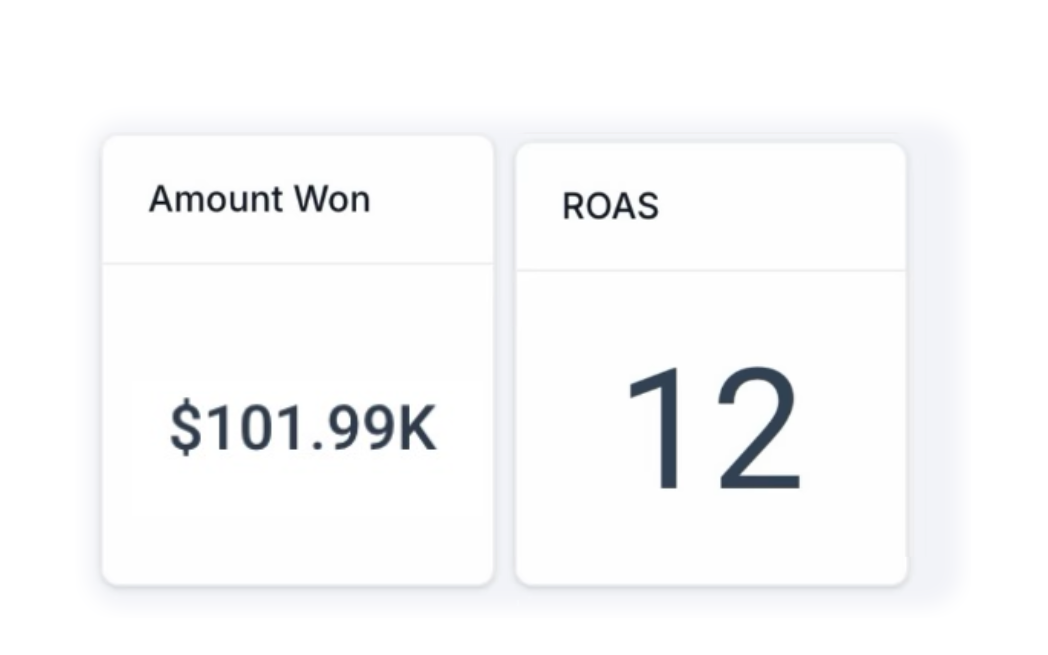
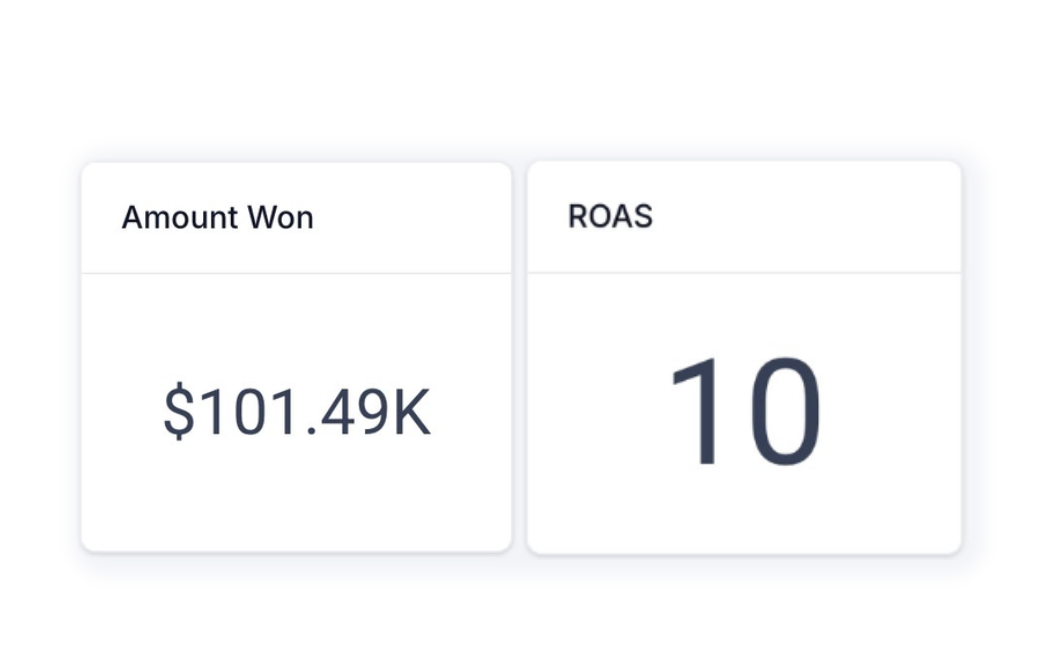
Stephen: $100K in 30 days at 10x ROAS; new screenshots; Adriel video
- Main page card 1: new After screenshot ($101.49K, ROAS 10), 10x copy
- Confirmation: Stephen's breakdown matches dashboard + screenshot,
  Adriel's case study plays the YouTube video

diff --git a/script.js b/script.js
@@ -6,9 +6,9 @@ const COMPARISONS = [
     title: "$6K/Month To $101K/Month",
     tags: ["B2C Coaching Offer", "Music Production Niche", "$4K–$8K Ticket"],
     before: { label: "Before", img: "assets/compare/1-before.png", caption: "Amount Won $6K · ROAS 1", text: "This music production coach had a known name in his space, so getting calls wasn’t the problem. Getting the right people on them was. His funnel attracted people who loved the idea of getting results, but were highly skeptical of a high-ticket program. The few who bought could only afford small split payments. His average order value was around $500, and he was stuck at 6K–10K a month." },
-    after: { label: "After", img: "assets/compare/1-paid.png", caption: "Amount Won $101.99K · ROAS 12", text: "We rebuilt everything from the ground up, tailored to buyers who could actually afford it. We built a new VSL, landing page, application, pre-call warm-up, and our Direct Offer ads around them. Better leads started booking, his average order value jumped from $500 to $4,000, and that justified scaling. He went from $6K a month to breaking $100K a month on 100% cold traffic, averaging an 8-12x ROAS." },
+    after: { label: "After", img: "assets/compare/1-paid.png", caption: "Amount Won $101.49K · ROAS 10", text: "We rebuilt everything from the ground up, tailored to buyers who could actually afford it. We built a new VSL, landing page, application, pre-call warm-up, and our Direct Offer ads around them. Better leads started booking, his average order value jumped from $500 to $4,000, and that justified scaling. He went from $6K a month to breaking $100K in 30 days on 100% cold traffic, at a 10x ROAS." },
     inputs: [["$6K/mo", "Before"]],
-    outputs: [["$101K/mo", "After"], ["8–12x", "ROAS", true]],
+    outputs: [["$101K/mo", "After"], ["10x", "ROAS", true]],
   },
   {
     title: "10x ROAS First 30 Days",

diff --git a/confirmation/confirmation.js b/confirmation/confirmation.js
@@ -9,9 +9,10 @@ const CASES = [
     icon: "chart", name: "Stephen", tag: "Client Success Story",
     vturb: "6adaacdcb5b8cc79020c865b", ratio: 62.45654692931634,
     desc: "Music production coach",
-    result: "$100K/month [8–12x ROAS]",
+    result: "$100K in 30 days [10x ROAS]",
     button: "Funnel Breakdown",
-    breakdown: [["Ad spend", "$8,000"], ["Cash collected", "$100K"], ["ROAS", "12x"]],
+    breakdown: [["Ad spend", "$9.7K"], ["Cash collected", "$101.49K"], ["ROAS", "10x"], ["Timeframe", "30 days"]],
+    breakdownImg: "/assets/cases/stephen-breakdown.png",
     youtube: "", mp4: "",
   },
   {
@@ -19,8 +20,9 @@ const CASES = [
     desc: "Real Estate Development Coach",
     result: "$40,000 in first 30 days (10x ROAS)",
     button: "Cost Breakdown",
+    youtube: "Naet6oekdaI",
     breakdown: [["Ad spend", "$3,450"], ["Cash collected (from ads)", "$33,000"], ["ROAS", "10x"], ["Timeframe", "First 30 days"]],
-    youtube: "", mp4: "",
+    mp4: "",
   },
 ];
 
@@ -102,6 +104,7 @@ document.getElementById("cases").innerHTML = CASES.map((c) => `
       <details>
         <summary>${c.button}</summary>
         <dl>${c.breakdown.map(([k, v]) => `<dt>${k}</dt><dd>${v}</dd>`).join("")}</dl>
+        ${c.breakdownImg ? `<img class="case__shot" src="${c.breakdownImg}" alt="${c.name} funnel dashboard" loading="lazy" />` : ""}
       </details>
     </div>
     ${player(c, c.name)}

diff --git a/confirmation/confirmation.css b/confirmation/confirmation.css
@@ -82,6 +82,7 @@
 .case summary::after { content: "⌄"; transform: translateY(-3px); }
 .case details[open] summary::after { transform: rotate(180deg) translateY(-3px); }
 .case dl { display: grid; grid-template-columns: auto 1fr; gap: 8px 18px; margin: 16px 0 0; padding: 16px; background: var(--white); border: 1px solid var(--line); border-radius: 10px; font-size: 14px; }
+.case__shot { display: block; width: 100%; margin-top: 12px; border-radius: 10px; border: 1px solid var(--line-2); background: var(--white); }
 .case dt { color: var(--muted); }
 .case dd { margin: 0; font-weight: 600; text-align: right; }
 
